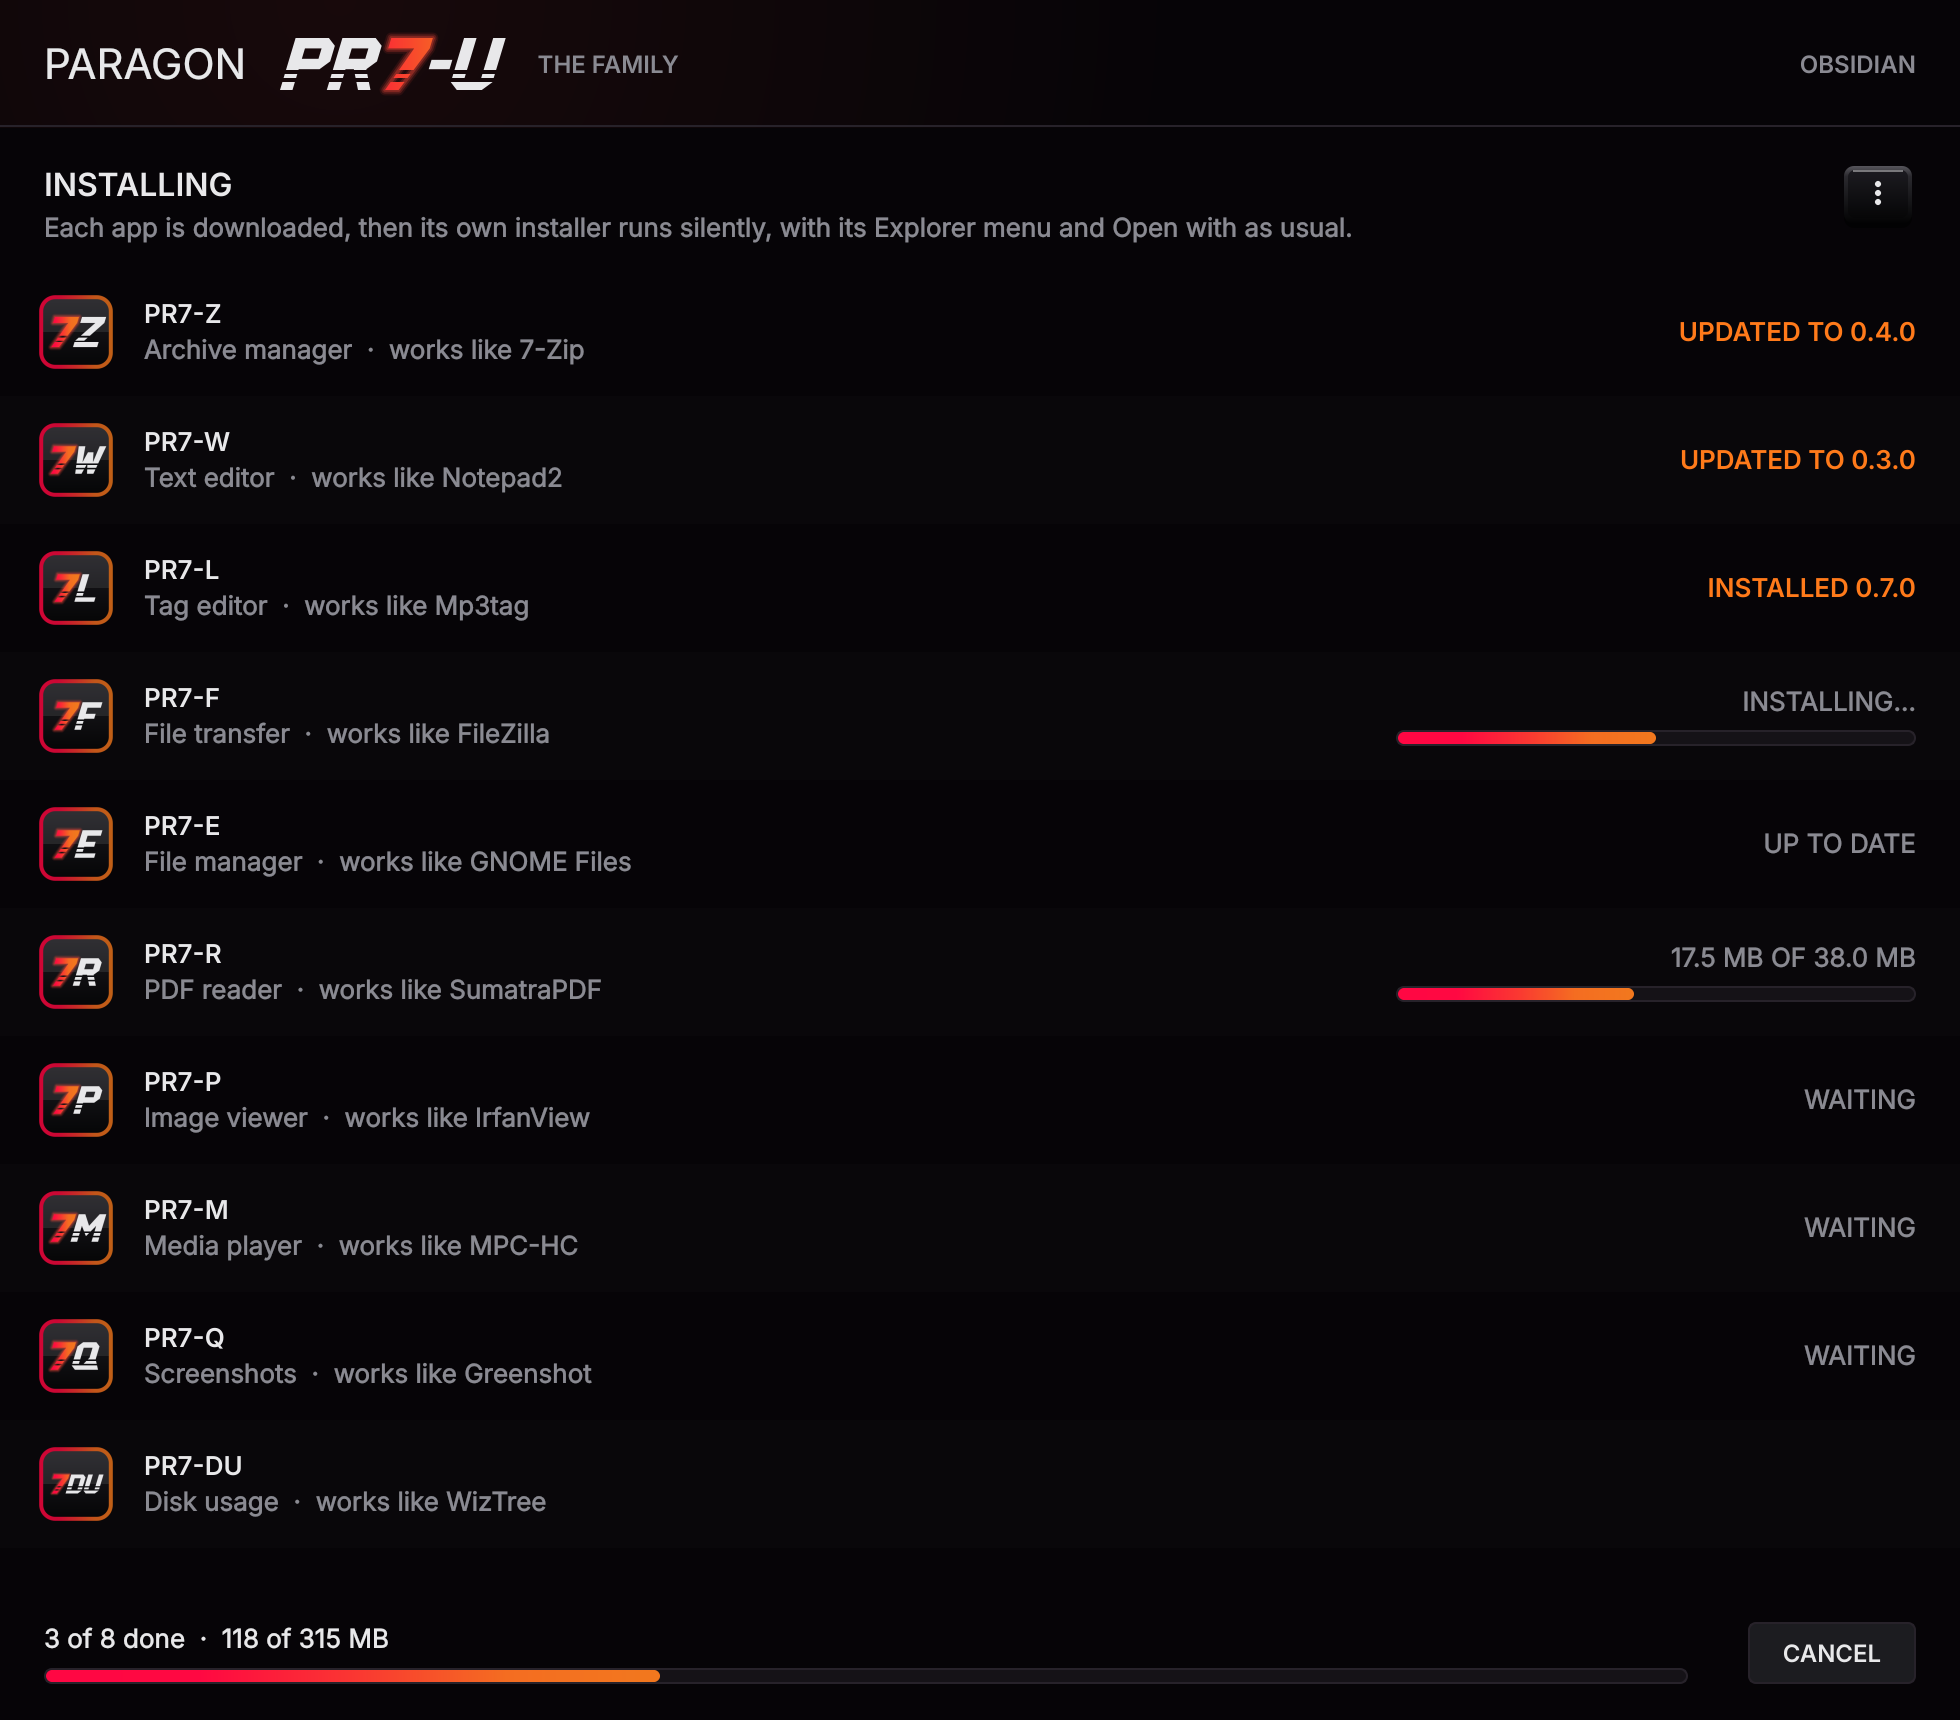
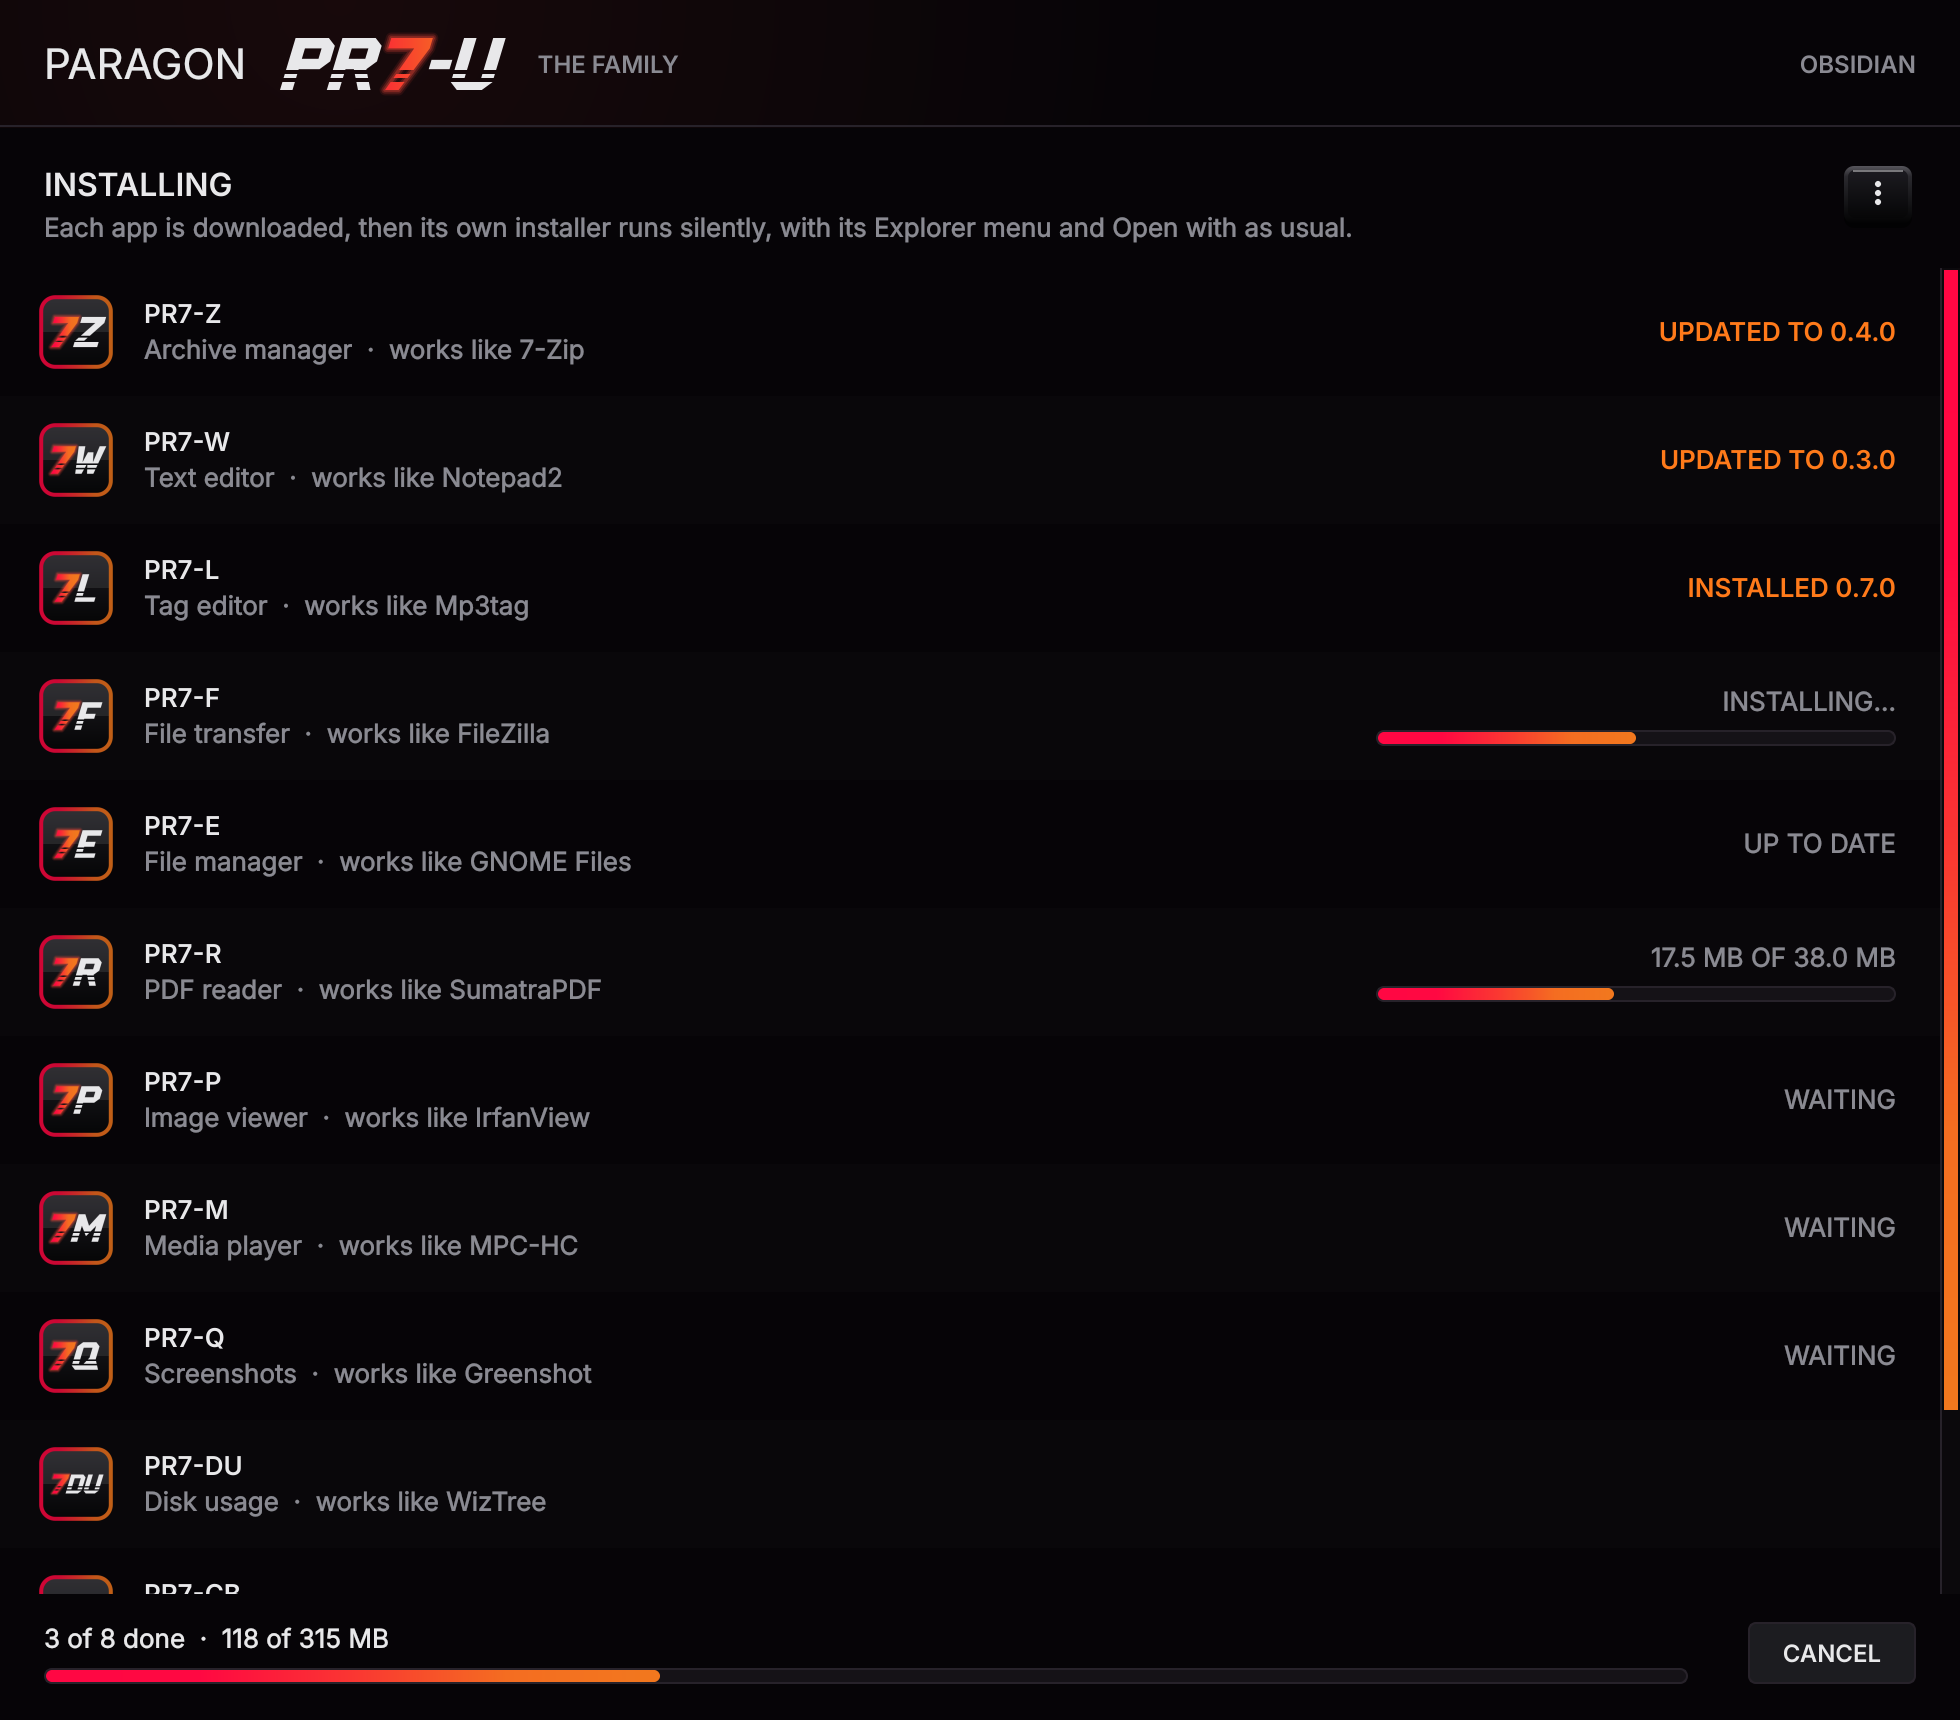
PR7-U 0.4.0: PR7-IS joins the family
PR7-IS (file search, works like Everything) is in the catalog. A first install
passes /MERGETASKS=!service so a batch never stops at its UAC prompt; PR7-IS
offers to install its index service itself.

Claude-Session: https://claude.ai/code/session_01DkHHwBFzLfConzBFYoXfst

Changed region(s): [[0.8403, 0.1541, 1.0, 0.832], [0.6847, 0.5547, 0.7158, 0.5855], [0.0311, 0.8936, 0.0622, 0.9244]]

diff --git a/tests/test_window.py b/tests/test_window.py
@@ -14,14 +14,14 @@ def test_first_start_offers_the_whole_family(window, fam):
     from conftest import LETTERS, VERSIONS
     assert window.chosen() == LETTERS
     total = sum(len(fam.files[f"/PR7-{x}-Setup-{v}.exe"]) for x, v in zip(LETTERS, VERSIONS))
-    assert window.summary.text() == f"11 apps  ·  {total / 1e6:.1f} MB to download"
-    assert window.buttons["go"].text() == "INSTALL 11 APPS"
+    assert window.summary.text() == f"12 apps  ·  {total / 1e6:.1f} MB to download"
+    assert window.buttons["go"].text() == "INSTALL 12 APPS"
     window.widgets["M"].check.setChecked(False)
-    assert window.buttons["go"].text() == "INSTALL 10 APPS" and "M" not in window.chosen()
+    assert window.buttons["go"].text() == "INSTALL 11 APPS" and "M" not in window.chosen()
     window._button_none()
     assert not window.buttons["go"].isEnabled() and window.summary.text() == "Nothing ticked"
     window._button_all()
-    assert len(window.chosen()) == 11
+    assert len(window.chosen()) == 12
 
 
 def test_install_the_chosen_ones(window, fam):
@@ -31,7 +31,7 @@ def test_install_the_chosen_ones(window, fam):
     window.refresh()
     assert window.mode == "choose"
     assert not window.widgets["E"].check.isChecked() and not window.widgets["Q"].check.isEnabled()
-    for k in ["L", "F", "R", "P", "M", "DU", "CB"]:
+    for k in ["L", "F", "R", "P", "M", "DU", "CB", "IS"]:
         window.widgets[k].check.setChecked(False)
     window._button_go()                                   # Z and W
     assert [a[0].rsplit("/", 1)[-1].rsplit("\\", 1)[-1] for a in fam.ran] == ["PR7-Z-Setup-0.4.0.exe",
@@ -75,7 +75,7 @@ def test_manage_view_open_update_uninstall(window, fam):
     assert window.mode == "manage" and window.heading.text() == "YOUR PARAGON APPS"
     w = window.widgets
     assert (w["Z"].button.text(), w["E"].button.text(), w["W"].button.text()) == ("UPDATE", "OPEN", "INSTALL")
-    assert window.summary.text() == "1 update  ·  9 apps not installed"
+    assert window.summary.text() == "1 update  ·  10 apps not installed"
     assert visible(window, "go") and window.buttons["go"].text() == "UPDATE ALL"
     opened = []
     window.answers["launch"] = lambda name, args: opened.append(name) or True
@@ -127,7 +127,7 @@ def test_listing(fam, tmp_path):
     assert app.listing(str(out), fam.fetch, fam.reader) == 0
     got = {d["app"]: d for d in json.loads(out.read_text())}
     assert got["PR7-Z"]["state"] == "update" and got["PR7-Z"]["installed"] == "0.3.0" and got["PR7-Z"]["latest"] == "0.4.0"
-    assert len(got) == 11 and got["PR7-W"]["installed"] is None
+    assert len(got) == 12 and got["PR7-W"]["installed"] is None
 
 
 def test_install_and_uninstall_without_a_window(fam):
@@ -136,7 +136,7 @@ def test_install_and_uninstall_without_a_window(fam):
     fam.install("PR7-E", "1.1.0")
     assert app.headless("install", "all", fam.fetch, None, fam.runner, fam.reader, lines.append) == 0
     assert "PR7-M: no release yet" in lines and "PR7-E: up to date (1.1.0)" in lines and "PR7-Z: installed 0.4.0" in lines
-    assert len(fam.registry) == 10
+    assert len(fam.registry) == 11
     lines.clear()
     fam.failing.add("PR7-Q"); fam.release("PR7-Q", "0.2.0")
     assert app.headless("install", "Q", fam.fetch, None, fam.runner, fam.reader, lines.append) == 1

diff --git a/tests/test_releases.py b/tests/test_releases.py
@@ -9,11 +9,11 @@ from pr7u.updates import UpdateError
 def test_the_catalog_is_the_whole_family():
     from conftest import LETTERS
     assert [a.name for a in catalog.APPS] == [f"PR7-{x}" for x in LETTERS]
-    assert len({a.appid for a in catalog.APPS}) == 11 and family.APPS["PR7-U"] not in {a.appid for a in catalog.APPS}
+    assert len({a.appid for a in catalog.APPS}) == 12 and family.APPS["PR7-U"] not in {a.appid for a in catalog.APPS}
     for a in catalog.APPS:
         assert Path(a.icon).is_file() and a.repo == f"ARYEZ/Paragon-{a.name}"
     assert [a.letter for a in catalog.pick("q, PR7-z")] == ["Z", "Q"]       # catalogue order
-    assert len(catalog.pick("all")) == 11 and [a.name for a in catalog.pick("du")] == ["PR7-DU"]
+    assert len(catalog.pick("all")) == 12 and [a.name for a in catalog.pick("du")] == ["PR7-DU"]
     with pytest.raises(ValueError):
         catalog.pick("Z,X")
 
@@ -38,7 +38,7 @@ def test_survey_states(fam):
     rows = {r.app.letter: r for r in releases.survey(fetch=fam.fetch, reader=fam.reader)}
     assert {k: r.state for k, r in rows.items()} == {"Z": "update", "W": "new", "L": "current", "F": "error",
                                                        "E": "current", "R": "new", "P": "new", "M": "new",
-                                                       "Q": "unreleased", "DU": "new", "CB": "new"}
+                                                       "Q": "unreleased", "DU": "new", "CB": "new", "IS": "new"}
     assert rows["Z"].wanted and not rows["E"].wanted and "network down" in rows["F"].error
 
 
@@ -59,6 +59,13 @@ def test_install_downloads_and_runs_the_apps_own_setup_silently(fam, tmp_path):
     releases.install(row, runner=fam.runner, reader=fam.reader)
     assert "/MERGETASKS=!replacenotepad" not in fam.ran[1]          # an update keeps the earlier choices
     assert row.installed.version == "0.3.1"
+
+
+def test_a_first_install_of_pr7_is_leaves_out_its_service(fam, tmp_path):
+    row = releases.survey([catalog.BY_LETTER["IS"]], fetch=fam.fetch, reader=fam.reader)[0]
+    releases.install(row, folder=str(tmp_path / "dl"), runner=fam.runner, reader=fam.reader)
+    assert "/MERGETASKS=!service" in fam.ran[0]                        # its UAC prompt would stop the batch
+    assert row.installed.version and row.state == "current"
 
 
 def test_failures_say_what_went_wrong(fam):

diff --git a/tools/screenshots.py b/tools/screenshots.py
@@ -25,8 +25,8 @@ out.mkdir(parents=True, exist_ok=True)
 app = QApplication([])
 theme.load_fonts()
 
-LATEST = dict(zip(["Z", "W", "L", "F", "E", "R", "P", "M", "Q", "DU", "CB"], ["0.4.0", "0.3.0", "0.7.0", "0.5.0", "1.1.0", "0.1.0", "0.1.0", "0.1.0", "0.1.0", "0.1.0", "0.1.0"]))
-SIZES = dict(zip(["Z", "W", "L", "F", "E", "R", "P", "M", "Q", "DU", "CB"], [36.4, 27.4, 36.9, 42.1, 42.4, 38.0, 37.2, 61.5, 35.4, 34.8, 35.6]))
+LATEST = dict(zip(["Z", "W", "L", "F", "E", "R", "P", "M", "Q", "DU", "CB", "IS"], ["0.4.0", "0.3.0", "0.7.0", "0.5.0", "1.1.0", "0.1.0", "0.1.0", "0.1.0", "0.1.0", "0.1.0", "0.1.0", "0.1.0"]))
+SIZES = dict(zip(["Z", "W", "L", "F", "E", "R", "P", "M", "Q", "DU", "CB", "IS"], [36.4, 27.4, 36.9, 42.1, 42.4, 38.0, 37.2, 61.5, 35.4, 34.8, 35.6, 35.9]))
 registry = {}
 
 

diff --git a/tests/conftest.py b/tests/conftest.py
@@ -12,8 +12,8 @@ sys.path.insert(0, str(ROOT))
 sys.path.insert(0, str(ROOT / "tools"))
 os.environ.setdefault("QT_QPA_PLATFORM", "offscreen")
 os.environ.pop("PR7U_GITHUB_TOKEN", None)
-LETTERS = ["Z", "W", "L", "F", "E", "R", "P", "M", "Q", "DU", "CB"]
-VERSIONS = ["0.4.0", "0.3.0", "0.7.0", "0.5.0", "1.1.0", "0.1.0", "0.1.0", "0.1.0", "0.1.0", "0.1.0", "0.1.0"]
+LETTERS = ["Z", "W", "L", "F", "E", "R", "P", "M", "Q", "DU", "CB", "IS"]
+VERSIONS = ["0.4.0", "0.3.0", "0.7.0", "0.5.0", "1.1.0", "0.1.0", "0.1.0", "0.1.0", "0.1.0", "0.1.0", "0.1.0", "0.1.0"]
 
 
 @pytest.fixture(scope="session")

diff --git a/pr7u/family.py b/pr7u/family.py
@@ -15,7 +15,8 @@ APPS = {"PR7-Z": "{9914C6C8-01EC-476F-845D-98F814A0426E}", "PR7-W": "{D8F51204-6
         "PR7-M": "{CAA852D1-CDD0-4246-8ADB-50307D44F360}", "PR7-Q": "{D7ED5F6F-F80A-403C-8739-AA5BA3676C97}",
         "PR7-U": "{12226380-56E6-4D77-8F5C-8052A0AE4183}",
         "PR7-DU": "{9DFF1917-658D-4BE5-8C19-A88E7150AC24}",
-        "PR7-CB": "{5F4E0C50-1C11-4E53-A835-221E3BBB7509}"}
+        "PR7-CB": "{5F4E0C50-1C11-4E53-A835-221E3BBB7509}",
+        "PR7-IS": "{187DC039-E485-4BF2-9C1B-6026AF54C9F8}"}
 UNINSTALL = r"Software\Microsoft\Windows\CurrentVersion\Uninstall\{}_is1"
 
 

diff --git a/pr7u/catalog.py b/pr7u/catalog.py
@@ -56,6 +56,9 @@ APPS = [
     App("Q", "Screenshots", "Greenshot"),
     App("DU", "Disk usage", "WizTree"),          # Paragon-PR7-D was already taken: two letters
     App("CB", "Clipboard history", "Ditto"),     # Paragon-PR7-C was too
+    # Its index service task needs administrator permission once: a first install from PR7-U leaves it out (no UAC
+    # prompt mid-batch); PR7-IS's window then offers INSTALL THE INDEX SERVICE.
+    App("IS", "File search", "Everything", ("/MERGETASKS=!service",)),
 ]
 BY_LETTER = {a.letter: a for a in APPS}
 

diff --git a/pr7u/__init__.py b/pr7u/__init__.py
@@ -1,3 +1,3 @@
 """Paragon PR7-U: installs and updates the whole Paragon PR7 family."""
 
-__version__ = "0.3.0"
+__version__ = "0.4.0"

diff --git a/CHANGELOG.md b/CHANGELOG.md
@@ -1,5 +1,11 @@
 # Changelog
 
+## 0.4.0
+
+- **PR7-IS** (instant file search, works like Everything) joins the family. A first install from PR7-U leaves out
+  its index service, so installing the family never stops for a Windows permission prompt; PR7-IS offers to
+  install the service itself.
+
 ## 0.3.0
 
 - **PR7-CB** (clipboard history, works like Ditto) joins the family.

diff --git a/README.md b/README.md
@@ -18,6 +18,7 @@ own latest GitHub release, in the family look. Python and PySide6.
 | PR7-Q | Screenshots | Greenshot |
 | PR7-DU | Disk usage | WizTree |
 | PR7-CB | Clipboard history | Ditto |
+| PR7-IS | File search | Everything |
 
 ## How it works
 
